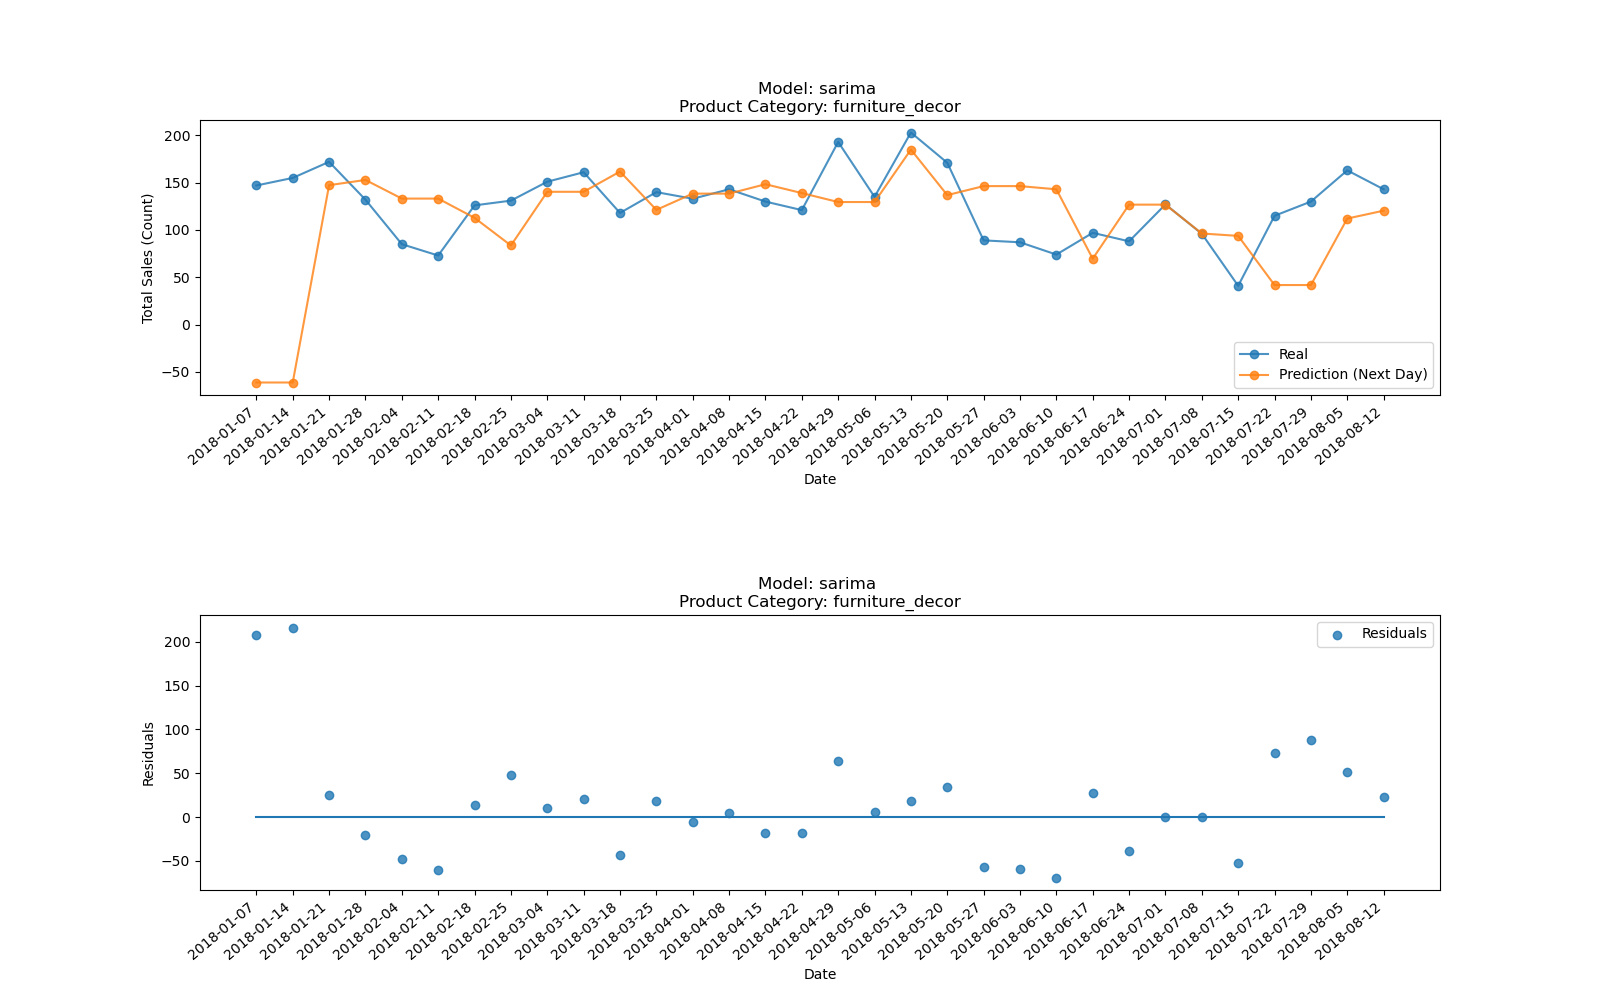
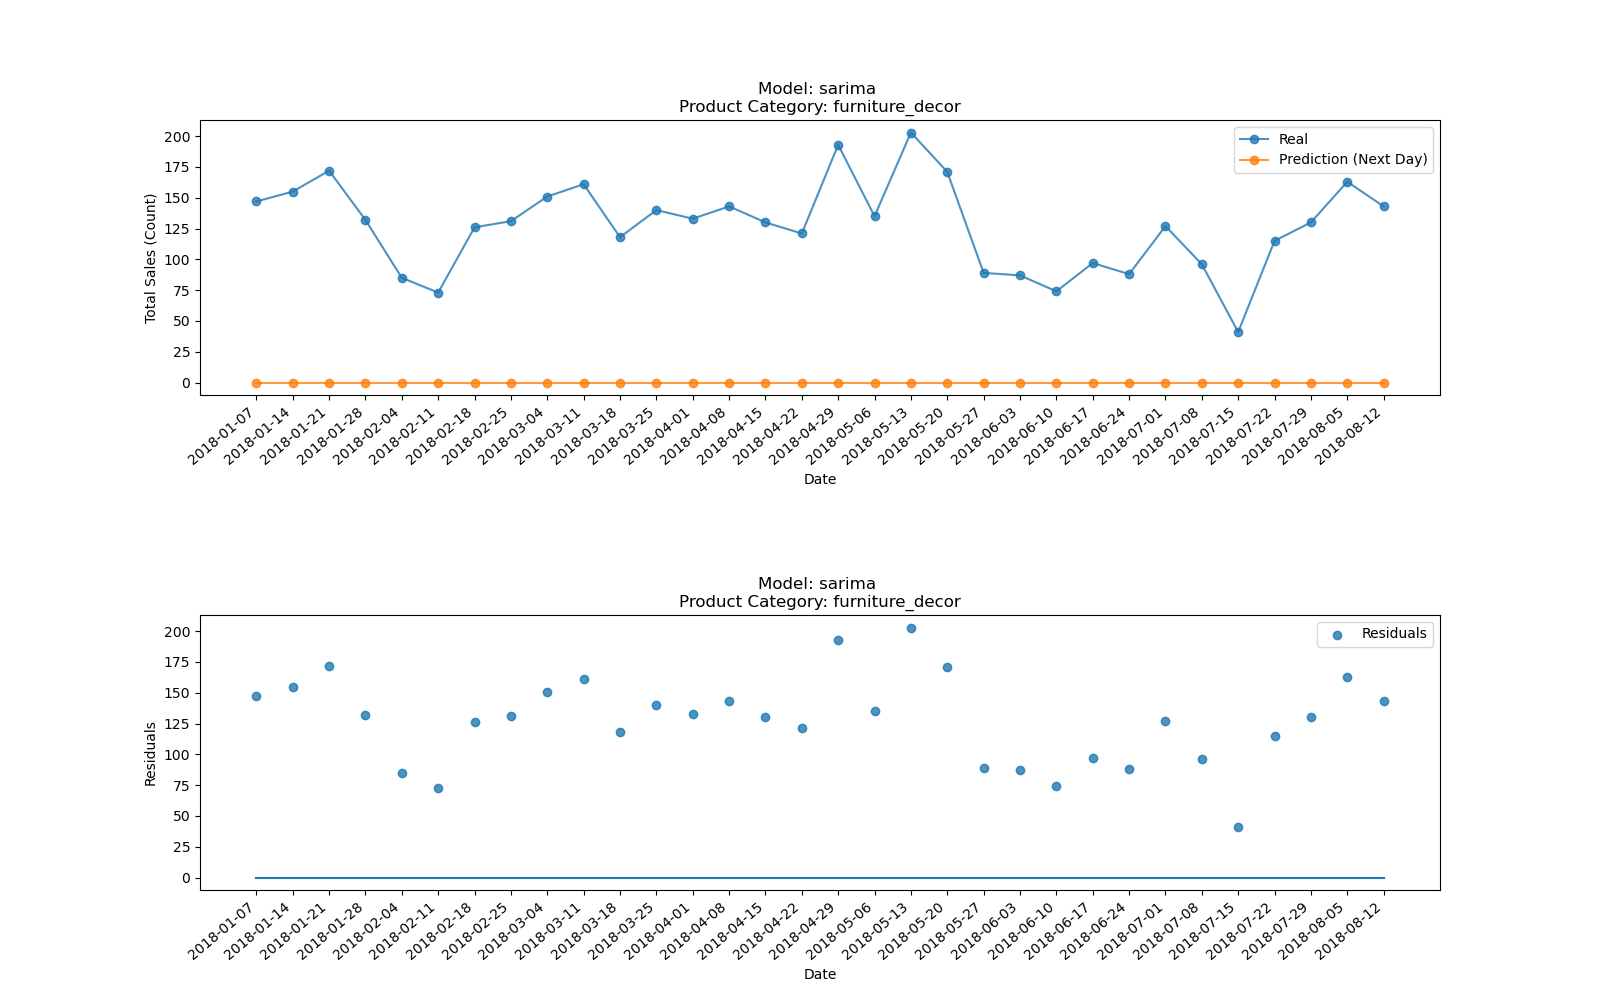
run sarima 0 1 range

diff --git a/scripts/train_sarima.py b/scripts/train_sarima.py
@@ -108,7 +108,7 @@ for prod_cat in params["olist"]["product_categories"]:
         ]
 
         # Define set of parameters for SARIMA
-        p = d = q = range(0, 2)
+        p = d = q = range(0, 1)
         pdq = list(itertools.product(p, d, q))
         spdq = list(itertools.product(p, d, q, [2, 3, 4]))
         all_params = list(itertools.product(pdq, spdq))
